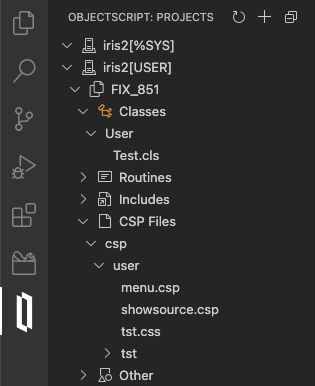
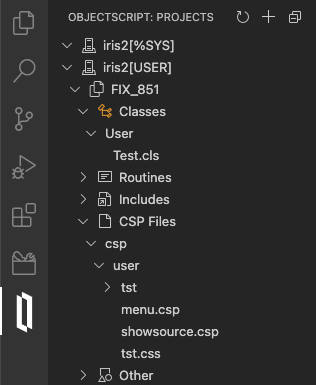
Show root nodes before leaf nodes in Projects Explorer

diff --git a/src/explorer/models/projectRootNode.ts b/src/explorer/models/projectRootNode.ts
@@ -69,28 +69,45 @@ export class ProjectRootNode extends RootNode {
       .actionQuery(query, parameters)
       .then((data) => data.result.content.map((e) => e.Name))
       .then((entries: string[]) =>
-        entries.map((entry) => {
-          const fullName = this.fullName.length
-            ? `${this.fullName}${this.category == "CSP" ? "/" : "."}${entry}`
-            : entry;
-          if (this.category == "CSP") {
-            if (entry.includes(".")) {
-              return new CSPFileNode(entry, fullName, this.options);
+        entries
+          .sort((a, b) => {
+            if ((a.match(/\./g) || []).length > (b.match(/\./g) || []).length) {
+              return 1;
+            } else if ((a.match(/\./g) || []).length < (b.match(/\./g) || []).length) {
+              return -1;
             } else {
-              return new ProjectRootNode(entry, fullName, "dataNode:cspApplication", this.category, this.options, true);
+              return 0;
             }
-          } else {
-            if (entry.includes(".")) {
-              if (["mac", "int", "inc"].includes(entry.split(".").pop().toLowerCase())) {
-                return new RoutineNode(entry, fullName, this.options);
+          })
+          .map((entry) => {
+            const fullName = this.fullName.length
+              ? `${this.fullName}${this.category == "CSP" ? "/" : "."}${entry}`
+              : entry;
+            if (this.category == "CSP") {
+              if (entry.includes(".")) {
+                return new CSPFileNode(entry, fullName, this.options);
               } else {
-                return new ClassNode(entry, fullName, this.options);
+                return new ProjectRootNode(
+                  entry,
+                  fullName,
+                  "dataNode:cspApplication",
+                  this.category,
+                  this.options,
+                  true
+                );
               }
             } else {
-              return new ProjectRootNode(entry, fullName, "dataNode:packageNode", this.category, this.options);
+              if (entry.includes(".")) {
+                if (["mac", "int", "inc"].includes(entry.split(".").pop().toLowerCase())) {
+                  return new RoutineNode(entry, fullName, this.options);
+                } else {
+                  return new ClassNode(entry, fullName, this.options);
+                }
+              } else {
+                return new ProjectRootNode(entry, fullName, "dataNode:packageNode", this.category, this.options);
+              }
             }
-          }
-        })
+          })
       );
   }
   public getItems4Export(): Promise<string[]> {
